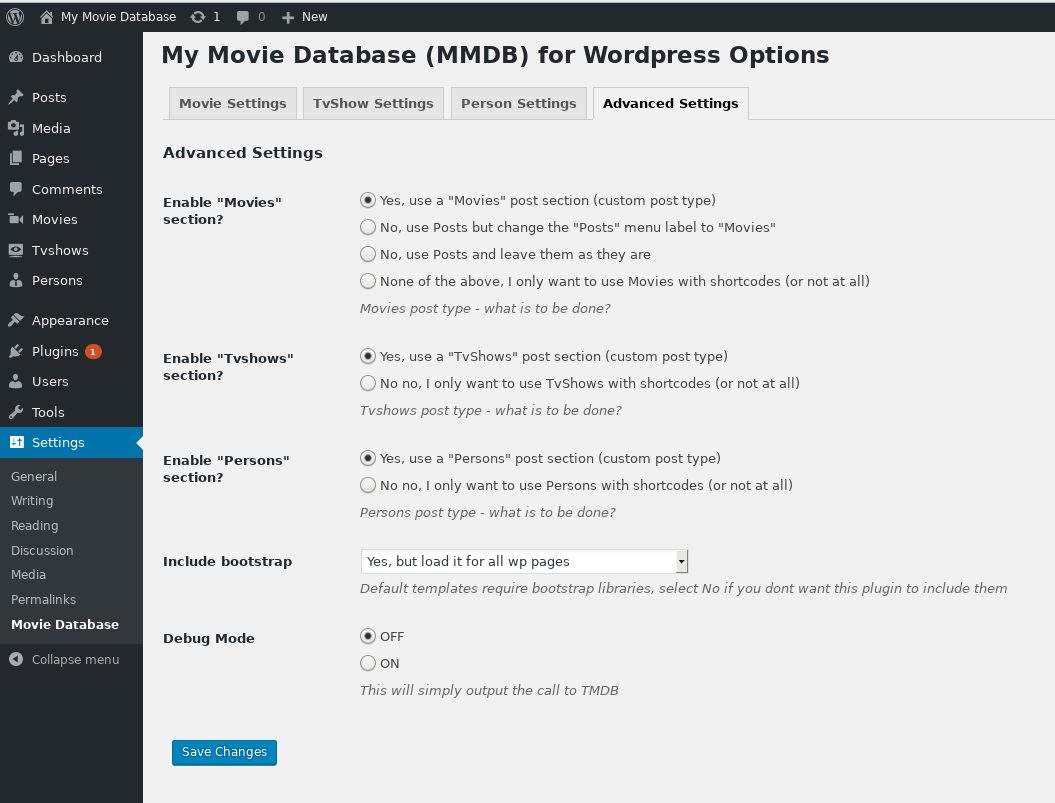
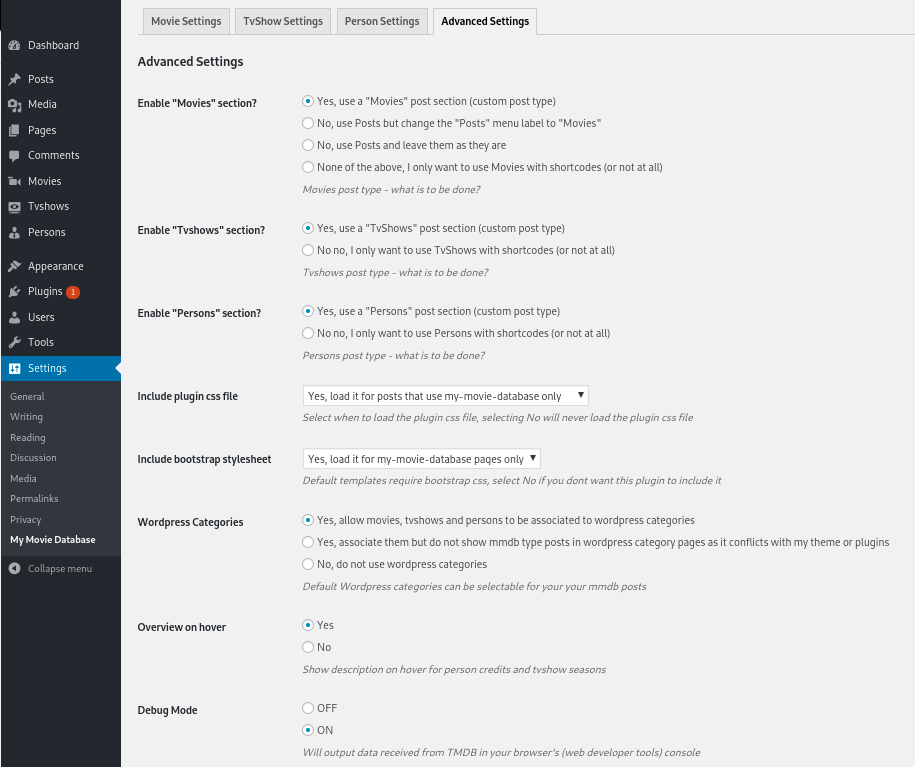
update docs for v2.0

Changed region(s): [[0.0, 0.0, 1.0, 1.0], [0.7038, 0.4498, 0.765, 0.4798], [0.2142, 0.2999, 0.2754, 0.3299]]

diff --git a/_includes/docs/advanced_settings.html b/_includes/docs/advanced_settings.html
@@ -1,6 +1,4 @@
-<img class="aligncenter wp-image-104 size-full" src="/wp-content/uploads/2017/09/mmdb_adv_options.png" alt="" width="1055" height="803" srcset="/wp-content/uploads/2017/09/mmdb_adv_options.png 1055w, /wp-content/uploads/2017/09/mmdb_adv_options-300x228.png 300w, /wp-content/uploads/2017/09/mmdb_adv_options-768x585.png 768w, /wp-content/uploads/2017/09/mmdb_adv_options-1024x779.png 1024w" sizes="(max-width: 706px) 89vw, (max-width: 767px) 82vw, 740px" />
-
-
+<img class="aligncenter wp-image-104 size-full" src="/wp-content/uploads/2017/09/mmdb_adv_options.png" alt="mmdb_adv_options img" />
 <div id="accordion2" class="panel-group config">
 
     <div id="accordion-adv" class="panel-group adv">
@@ -101,7 +99,7 @@
 
             <div id="collapse4" class="panel-collapse collapse">
                 <div class="panel-body">
-                    Default templates require the default mmdb css file. Select when to load it.<br />
+                    <p>Default templates require the default mmdb css file. Select when to load it.</p>
 
                     <ul>
                         <li>
@@ -136,7 +134,7 @@
 
             <div id="collapse5" class="panel-collapse collapse">
                 <div class="panel-body">
-                    Default templates require bootstrap libraries.Select when to load bootstrap.<br />
+                    <p>Default templates require bootstrap libraries. Select when to load bootstrap.</p>
 
                     <ul>
                         <li>
@@ -165,16 +163,69 @@
         <div class="panel panel-default">
             <div class="panel-heading">
                 <h4 class="panel-title">
-                    <a href="#collapse6" data-toggle="collapse" data-parent="#accordion-adv">Debug Mode </a>
+                    <a href="#collapse6" data-toggle="collapse" data-parent="#accordion-adv">WP Categories</a>
                 </h4>
             </div>
 
             <div id="collapse6" class="panel-collapse collapse">
                 <div class="panel-body">
-                    This will simply output the call to TMDB used for troubleshooting. You can then click on the "see request" link that will appear at the top of the page to see the data that TMDb is sending for the requested ressource.
+
+                    <p>You now have the option to link your my movie database posts to WP categories </p>
+
+                    <ul>
+                        <li>
+                            Yes, allow movies, tvshows and persons to be associated to wordpress categories.
+                        </li>
+                        <br /> The default option. This will allow you to associate regular wordpress categories to movies, tvshows and persons.
+                    </ul>
+
+                    <ul>
+                        <li>
+                            Yes, associate them but do not show mmdb type posts in wordpress category pages as it conflicts with my theme or plugins, but load it for all WP pages.
+                        </li>
+                        <br /> Allow you to associate mmdb type posts to WP categories but do not display them in wordpress category (archive) pages.
+                    </ul>
+
+                    <ul>
+                        <li>
+                            No, do not use wordpress categories
+                        </li>
+                        <br /> Selecting 'No' will not allow you to associate mmdb type posts to WP categories.
+                    </ul>
                 </div>
             </div>
         </div>
+
+
+        <div class="panel panel-default">
+            <div class="panel-heading">
+                <h4 class="panel-title">
+                    <a href="#collapse7" data-toggle="collapse" data-parent="#accordion-adv">Overview on hover</a>
+                </h4>
+            </div>
+
+            <div id="collapse7" class="panel-collapse collapse">
+                <div class="panel-body">
+                    Select whether you wish to show the text description on hover (and click on mobile) for person credits and tvshow seasons sections.
+                </div>
+            </div>
+        </div>
+
+
+        <div class="panel panel-default">
+            <div class="panel-heading">
+                <h4 class="panel-title">
+                    <a href="#collapse8" data-toggle="collapse" data-parent="#accordion-adv">Debug Mode </a>
+                </h4>
+            </div>
+
+            <div id="collapse8" class="panel-collapse collapse">
+                <div class="panel-body">
+                    Selecting ON will output the data received from TMDB in your browser's (web developer tools) console for troubleshooting purposes.
+                </div>
+            </div>
+        </div>
+
     </div>
 </div>
 

diff --git a/_includes/docs/basic_settings.html b/_includes/docs/basic_settings.html
@@ -1,5 +1,5 @@
 
-<img class="aligncenter wp-image-103 size-full" src="/wp-content/uploads/2017/09/mmdb_options.png" alt="" width="1206" height="797" srcset="/wp-content/uploads/2017/09/mmdb_options.png 1206w, /wp-content/uploads/2017/09/mmdb_options-300x198.png 300w, /wp-content/uploads/2017/09/mmdb_options-768x508.png 768w, /wp-content/uploads/2017/09/mmdb_options-1024x677.png 1024w" sizes="(max-width: 706px) 89vw, (max-width: 767px) 82vw, 740px" />
+<img class="aligncenter wp-image-103 size-full" src="/wp-content/uploads/2017/09/mmdb_options.png" alt="mmdb_options img" />
 
 <div id="accordion1" class="panel-group config">
     <div class="panel panel-default">
@@ -109,6 +109,20 @@
                                     </p>
                                     <p>
                                         <strong>large </strong> => for Full-width => renders 'col-lg-3 col-md-3 col-sm-6' <br /> <strong>medium </strong> => for one sidebar =>renders 'col-lg-3 col-md-4 col-sm-6' <br /> <strong>small </strong> => ‘for two sidebars =>renders 'col-lg-4 col-md-6 col-sm-6' <br />
+                                    </p>
+                                </div>
+                            </div>
+                        </div>
+                        <div class="panel panel-default">
+                            <div class="panel-heading">
+                                <h4 class="panel-title">
+                                    <a href="#collapseInner_b_Six" data-toggle="collapse" data-parent="#accordion2b"> Choosing the CSS transition </a>
+                                </h4>
+                            </div>
+                            <div id="collapseInner_b_Six" class="panel-collapse collapse">
+                                <div class="panel-body">
+                                    <p>
+                                        Select the transition effect to use when switching sections, or select "None" to not use any.
                                     </p>
                                 </div>
                             </div>

diff --git a/_posts/2017-09-30-how-to-use-the-mmdb-plugin.md b/_posts/2017-09-30-how-to-use-the-mmdb-plugin.md
@@ -15,7 +15,7 @@ You can disable any one of them (or all of them if you want to use this plugin _
 
 The shortcode method will always be available for all resource types (Movies, TvShows, etc) regardless of the state of the mmdb options for each post type.
 
-Below is an outline of the two methods: WordPress posts and shortcodes
+Below is an outline of the two methods: WordPress <a href="#post_types">posts</a> and <a href="#shortcodes">shortcodes</a>
 
 <div id="post_types">
   <h2>
@@ -29,21 +29,18 @@ These custom post types are just like your regular wordpress posts except that t
 
 ##### **Adding a New Movie (or editing a Movie post):**
 
-Below the content textarea of your Movie post you will find the search  field.
+Below the content textarea of your Movie post you will find the search field.
 
-_1-) Enter the title of the movie you are looking for and click on search._
+_1-) Enter the title of the movie you are looking._
 
-_2-) You will then be presented with the search results._
+_2-) Hover over the search results for further info and click to select the desired movie._
 
-<img class="size-full wp-image-306" src="/wp-content/uploads/2017/09/search.png" alt="search-results" width="982" height="827" srcset="/wp-content/uploads/2017/09/search.png 982w, /wp-content/uploads/2017/09/search-300x253.png 300w, /wp-content/uploads/2017/09/search-768x647.png 768w" sizes="(max-width: 706px) 89vw, (max-width: 767px) 82vw, 740px" />
+
+<img class="size-full wp-image-306" src="/wp-content/uploads/2017/09/search.png" alt="search-results" />
 
 _ _
 
-_3-) Click on the desired movie._ A pop up will appear asking you to confirm your selection or to return to the previous page.
-
-<img class="wp-image-305 size-large" src="/wp-content/uploads/2017/09/confirm-selection-1024x442.png" alt="confirm-selection" width="525" height="227" srcset="/wp-content/uploads/2017/09/confirm-selection-1024x442.png 1024w, /wp-content/uploads/2017/09/confirm-selection-300x129.png 300w, /wp-content/uploads/2017/09/confirm-selection-768x331.png 768w, /wp-content/uploads/2017/09/confirm-selection.png 1085w" sizes="(max-width: 525px) 100vw, 525px" /> 
-
-_4-) Once you have confirmed your selection click to save (or update) your post._
+_3-) Once you have made your selection you must save the post._
 
 That&#8217;s it! Now if you navigate to the url of your post (front-end), the movie information will be displayed.
 
@@ -55,15 +52,16 @@ From the plugin option page you can select:
   * if this should appear before or after the post content
   * which sections to display/hide, as well as
   * the header and body  colors for the available templates
+  * the CSS transition to use when switching sections
 
-For the Movie posts only  (in the advanced configuration option tab) :
+For <strong>Movie posts only</strong> (in the advanced configuration option tab) :
 
   * You have the option of using the default wordpress posts instead of a new custom post type.
   * You also have the option of renaming the default WP posts into movies or leaving them as is (&#8216;Posts&#8217;).
 
 See the [configuration documentation page](/plugin-configuration-mmdb-options-page/)  for more detailed info.
 
-> **All the of the above apply for TvShows and Persons as well.**
+> **All the of the above apply for TvShows and Persons as well (unless otherwise noted).**
 
 <div id="shortcodes">
   <h2>
